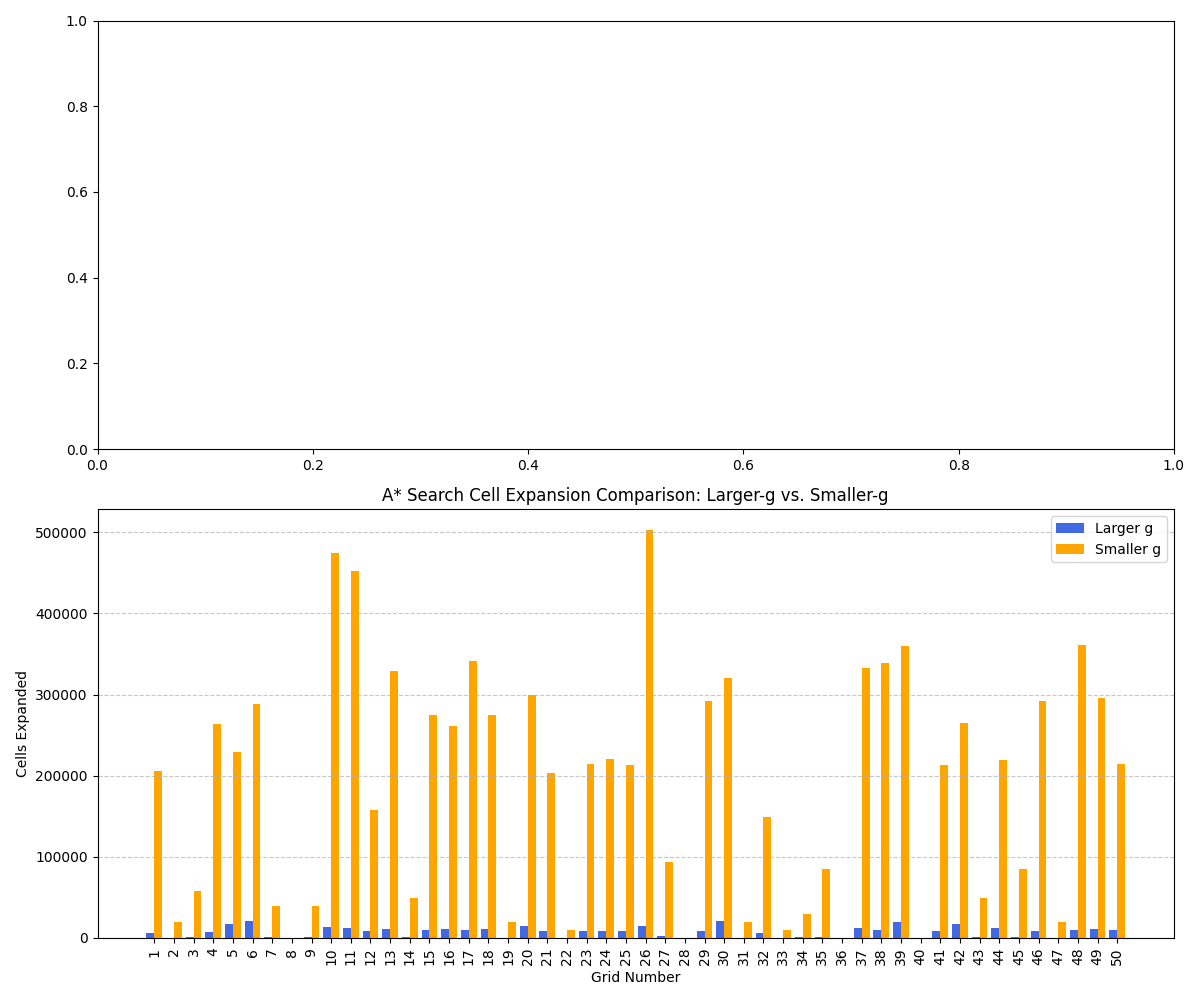
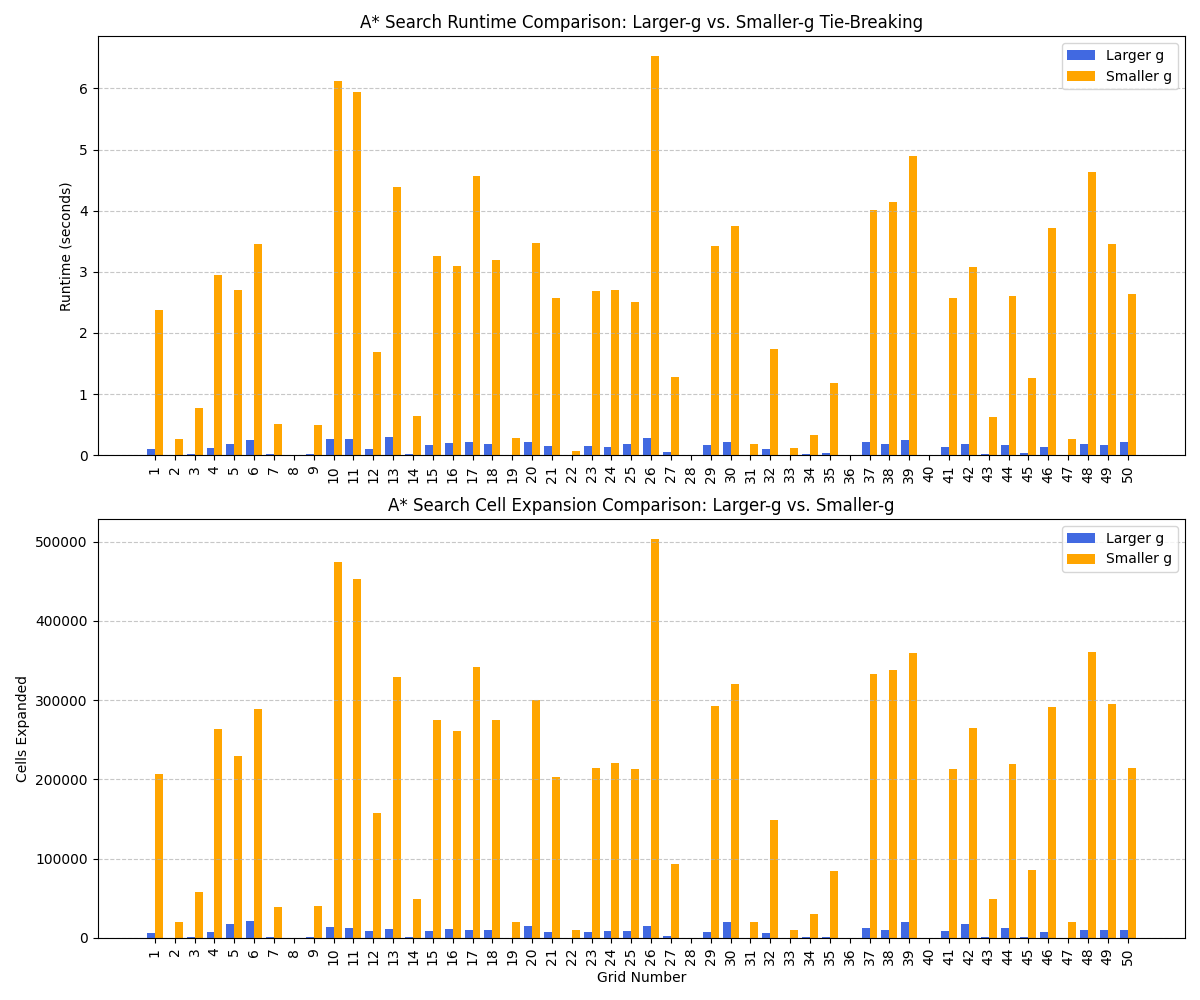
added runtests a

diff --git a/src/RunTestsA.py b/src/RunTestsA.py
@@ -1,0 +1,89 @@
+import numpy as np
+import matplotlib.pyplot as plt
+import time
+from GenerateGridWorlds import load_grid_from_txt  # Function to load individual grids
+from ForwardRepeatedAStar import repeatedForwardMain
+from AdaptiveAStar import repeatedAdaptiveMain
+
+# Number of grids
+num_grids = 50
+
+# # Lists to store runtimes and expanded nodes
+# larger_g_runtimes = []
+# smaller_g_runtimes = []
+# larger_g_expanded = []
+# smaller_g_expanded = []
+
+# ANSI escape codes for colors
+GREEN = "\033[92m"  # Success (Green)
+RED = "\033[91m"    # Failure (Red)
+RESET = "\033[0m"   # Reset color
+
+# Lists to store runtimes and expanded nodes
+larger_g_runtimes = []
+smaller_g_runtimes = []
+larger_g_expanded = []
+smaller_g_expanded = []
+
+# Run tests for each grid
+for i in range(1, num_grids + 1):
+    grid_filename = f"grids_txt/gridworld_{i}.txt"
+
+
+    # Define start and goal positions (adjust if necessary)
+    start, goal = (0, 0), (100, 100)
+
+    print(f"\nRunning A* on Grid {i}...")
+
+    # Run A* with larger-g tie-breaking
+    path_larger_g, expandedl, runtime_larger_g = repeatedForwardMain(grid_filename, start, goal, True)
+
+    larger_g_runtimes.append(runtime_larger_g)
+    larger_g_expanded.append(len(expandedl))
+
+    # Run A* with smaller-g tie-breaking
+    path_smaller_g, expandeds, runtime_smaller_g = repeatedForwardMain(grid_filename, start, goal, False)
+
+    smaller_g_runtimes.append(runtime_smaller_g)
+    smaller_g_expanded.append(len(expandeds))
+
+    # Determine if paths were found
+    status_larger_g = f"{GREEN}Success{RESET}" if path_larger_g else f"{RED}Fail{RESET}"
+    # print("path:", path_larger_g)
+    status_smaller_g = f"{GREEN}Success{RESET}" if path_smaller_g else f"{RED}Fail{RESET}"
+    
+    print(f"Grid {i}: Larger-g: {runtime_larger_g:.4f}s - {status_larger_g}, Smaller-g: {runtime_smaller_g:.4f}s - {status_smaller_g}")
+    print(f"Expanded: Larger - {len(expandedl)}, Smaller - {len(expandeds)}")
+    # print("path:", len(path_smaller_g))
+# Convert lists to numpy arrays
+grid_indices = np.arange(1, num_grids + 1)
+bar_width = 0.4  # Space bars side by side
+
+# Create subplots for runtime and expanded nodes
+fig, axes = plt.subplots(2, 1, figsize=(12, 10))
+
+# Bar Graph for Runtime
+axes[0].bar(grid_indices - bar_width/2, larger_g_runtimes, bar_width, label="Larger g", color="royalblue")
+axes[0].bar(grid_indices + bar_width/2, smaller_g_runtimes, bar_width, label="Smaller g", color="orange")
+axes[0].set_ylabel("Runtime (seconds)")
+axes[0].set_title("A* Search Runtime Comparison: Larger-g vs. Smaller-g Tie-Breaking")
+axes[0].legend()
+axes[0].set_xticks(grid_indices)
+axes[0].set_xticklabels(grid_indices, rotation=90)
+axes[0].grid(axis="y", linestyle="--", alpha=0.7)
+
+# Bar Graph for Expanded Nodes
+axes[1].bar(grid_indices - bar_width/2, larger_g_expanded, bar_width, label="Larger g", color="royalblue")
+axes[1].bar(grid_indices + bar_width/2, smaller_g_expanded, bar_width, label="Smaller g", color="orange")
+axes[1].set_xlabel("Grid Number")
+axes[1].set_ylabel("Cells Expanded")
+axes[1].set_title("A* Search Cell Expansion Comparison: Larger-g vs. Smaller-g")
+axes[1].legend()
+axes[1].set_xticks(grid_indices)
+axes[1].set_xticklabels(grid_indices, rotation=90)
+axes[1].grid(axis="y", linestyle="--", alpha=0.7)
+
+# Save the plots
+plt.tight_layout()
+plt.savefig("graphics/g_tiebreaking_comparison_bar.png")
+plt.show()
